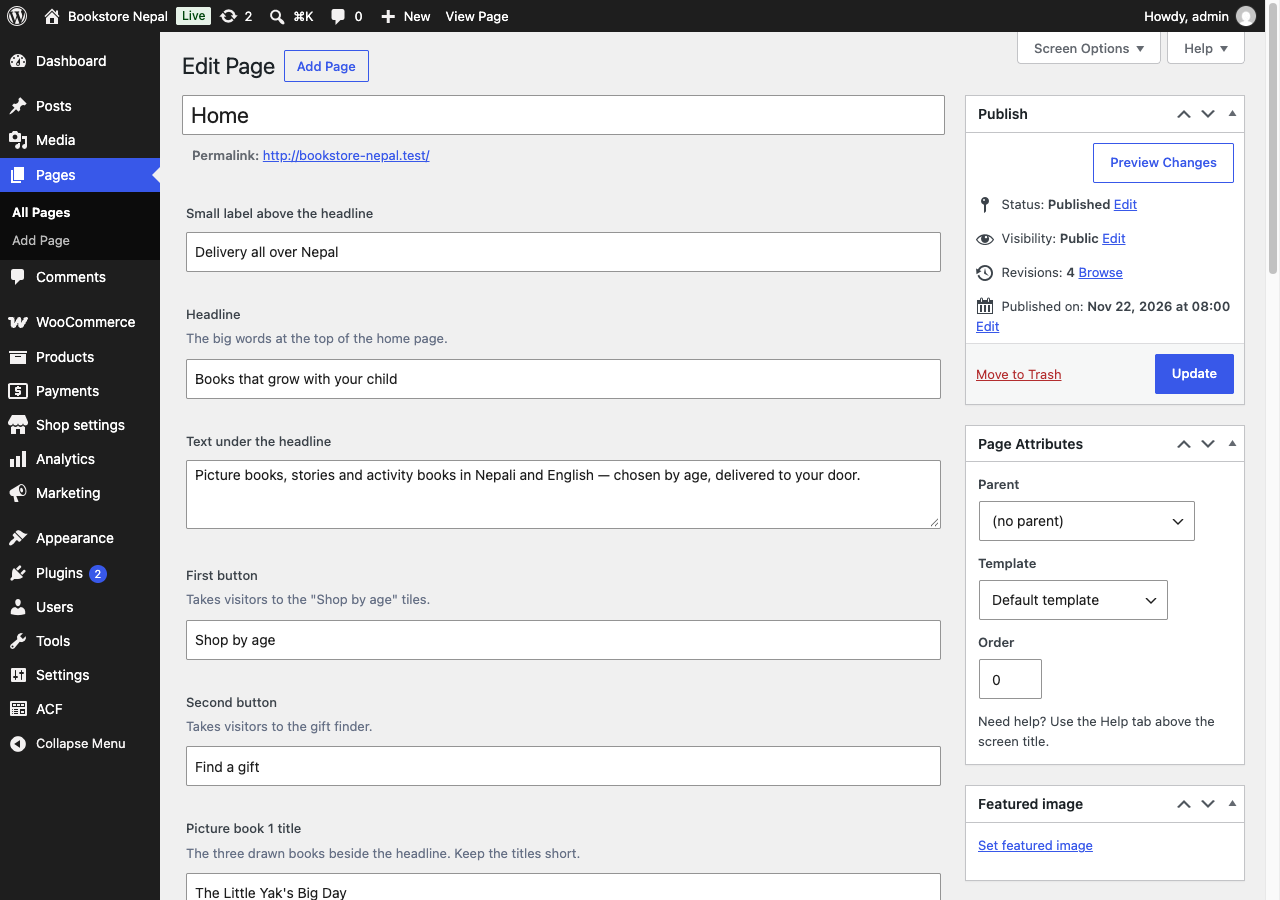
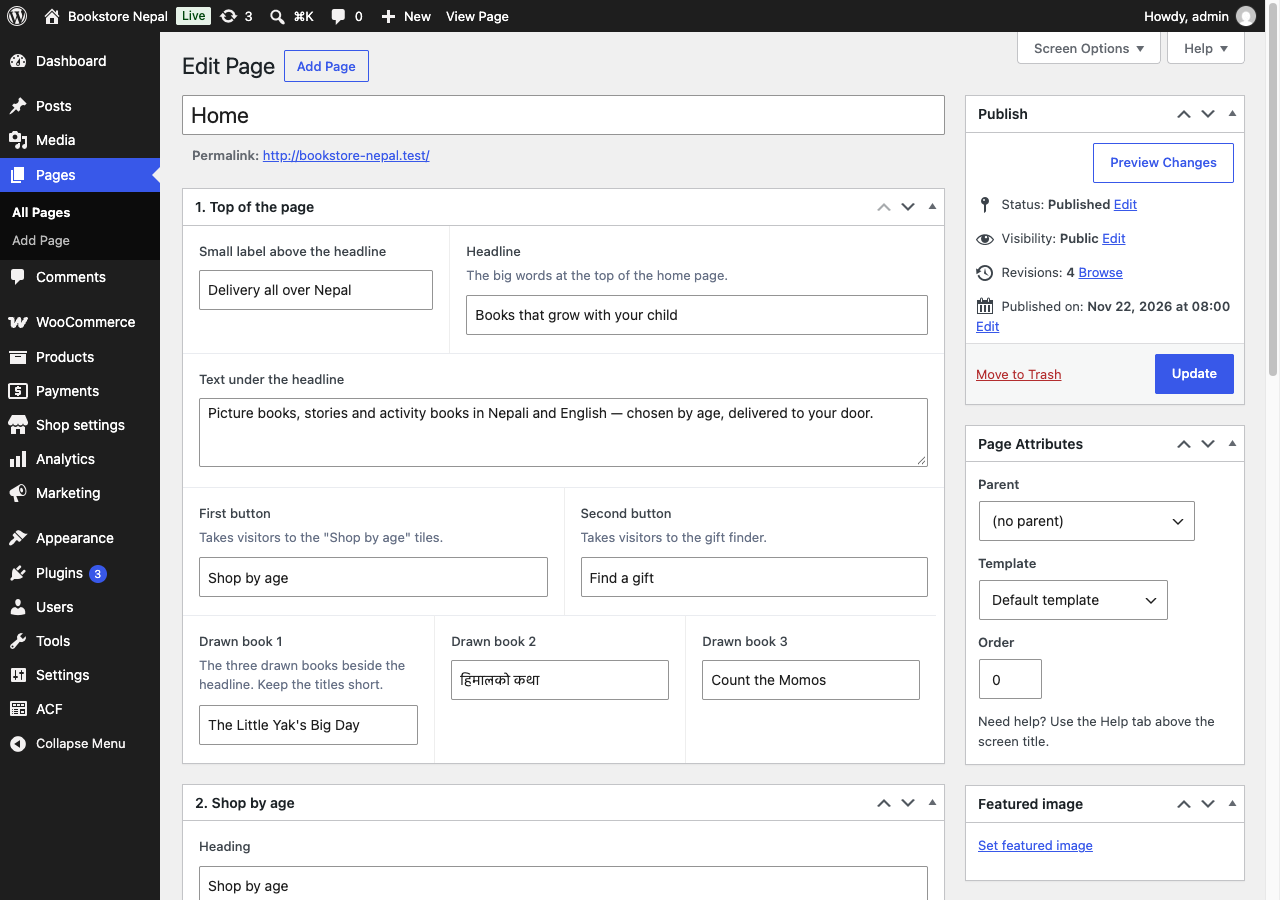
feat: Home page wording in numbered sections, related boxes side by side
The Home page form is split into five boxed, collapsible sections in page order
(top, shop by age, book rows, gift finder, dark strip), with short boxes sharing
a row. Field names are unchanged, so saved wording stays.

diff --git a/plugins/bookstore-nepal-core/src/Content/Fields.php b/plugins/bookstore-nepal-core/src/Content/Fields.php
@@ -24,39 +24,63 @@ class Fields {
 	 * @return array<string,array{title:string,location:string,fields:list<array<string,mixed>>}>
 	 */
 	public static function schema(): array {
-		$text     = static fn( string $name, string $label, string $hint = '' ): array => self::field( $name, $label, 'text', $hint );
-		$textarea = static fn( string $name, string $label, string $hint = '' ): array => self::field( $name, $label, 'textarea', $hint );
-		$rich     = static fn( string $name, string $label, string $hint = '' ): array => self::field( $name, $label, 'wysiwyg', $hint );
+		$text = static fn( string $name, string $label, string $hint = '', string $width = '' ): array => self::field( $name, $label, 'text', $hint, $width );
+		$textarea = static fn( string $name, string $label, string $hint = '', string $width = '' ): array => self::field( $name, $label, 'textarea', $hint, $width );
+		$rich = static fn( string $name, string $label, string $hint = '', string $width = '' ): array => self::field( $name, $label, 'wysiwyg', $hint, $width );
 
 		return array(
-			'home'     => array(
-				'title'    => __( 'Home page wording', 'bookstore-nepal' ),
+			'home_hero'  => array(
+				'title'    => __( '1. Top of the page', 'bookstore-nepal' ),
 				'location' => 'front_page',
 				'fields'   => array(
-					$text( 'bsn_hero_pill', __( 'Small label above the headline', 'bookstore-nepal' ) ),
-					$text( 'bsn_hero_headline', __( 'Headline', 'bookstore-nepal' ), __( 'The big words at the top of the home page.', 'bookstore-nepal' ) ),
+					$text( 'bsn_hero_pill', __( 'Small label above the headline', 'bookstore-nepal' ), '', '35' ),
+					$text( 'bsn_hero_headline', __( 'Headline', 'bookstore-nepal' ), __( 'The big words at the top of the home page.', 'bookstore-nepal' ), '65' ),
 					$textarea( 'bsn_hero_lead', __( 'Text under the headline', 'bookstore-nepal' ) ),
-					$text( 'bsn_hero_button_ages', __( 'First button', 'bookstore-nepal' ), __( 'Takes visitors to the "Shop by age" tiles.', 'bookstore-nepal' ) ),
-					$text( 'bsn_hero_button_gift', __( 'Second button', 'bookstore-nepal' ), __( 'Takes visitors to the gift finder.', 'bookstore-nepal' ) ),
-					$text( 'bsn_hero_book_1', __( 'Picture book 1 title', 'bookstore-nepal' ), __( 'The three drawn books beside the headline. Keep the titles short.', 'bookstore-nepal' ) ),
-					$text( 'bsn_hero_book_2', __( 'Picture book 2 title', 'bookstore-nepal' ) ),
-					$text( 'bsn_hero_book_3', __( 'Picture book 3 title', 'bookstore-nepal' ) ),
-					$text( 'bsn_ages_heading', __( '"Shop by age" heading', 'bookstore-nepal' ) ),
-					$text( 'bsn_age_0_3_title', __( 'Ages 0–3: name', 'bookstore-nepal' ) ),
-					$text( 'bsn_age_0_3_text', __( 'Ages 0–3: description', 'bookstore-nepal' ) ),
-					$text( 'bsn_age_4_7_title', __( 'Ages 4–7: name', 'bookstore-nepal' ) ),
-					$text( 'bsn_age_4_7_text', __( 'Ages 4–7: description', 'bookstore-nepal' ) ),
-					$text( 'bsn_age_8_12_title', __( 'Ages 8–12: name', 'bookstore-nepal' ) ),
-					$text( 'bsn_age_8_12_text', __( 'Ages 8–12: description', 'bookstore-nepal' ) ),
-					$text( 'bsn_new_heading', __( 'New arrivals: heading', 'bookstore-nepal' ) ),
-					$text( 'bsn_new_more', __( 'New arrivals: "see all" link', 'bookstore-nepal' ) ),
-					$text( 'bsn_best_heading', __( 'Best sellers: heading', 'bookstore-nepal' ) ),
-					$text( 'bsn_best_more', __( 'Best sellers: "see all" link', 'bookstore-nepal' ) ),
-					$text( 'bsn_featured_heading', __( 'Favourites: heading', 'bookstore-nepal' ), __( 'The books shown here are the ones starred as "featured" in Products.', 'bookstore-nepal' ) ),
-					$text( 'bsn_featured_more', __( 'Favourites: "see all" link', 'bookstore-nepal' ) ),
-					$text( 'bsn_gift_heading', __( 'Gift finder: heading', 'bookstore-nepal' ) ),
-					$textarea( 'bsn_gift_text', __( 'Gift finder: text', 'bookstore-nepal' ) ),
-					$text( 'bsn_trust_delivery', __( 'Dark strip near the bottom: delivery line', 'bookstore-nepal' ), __( 'The ways to pay in this strip update by themselves.', 'bookstore-nepal' ) ),
+					$text( 'bsn_hero_button_ages', __( 'First button', 'bookstore-nepal' ), __( 'Takes visitors to the "Shop by age" tiles.', 'bookstore-nepal' ), '50' ),
+					$text( 'bsn_hero_button_gift', __( 'Second button', 'bookstore-nepal' ), __( 'Takes visitors to the gift finder.', 'bookstore-nepal' ), '50' ),
+					$text( 'bsn_hero_book_1', __( 'Drawn book 1', 'bookstore-nepal' ), __( 'The three drawn books beside the headline. Keep the titles short.', 'bookstore-nepal' ), '33' ),
+					$text( 'bsn_hero_book_2', __( 'Drawn book 2', 'bookstore-nepal' ), '', '33' ),
+					$text( 'bsn_hero_book_3', __( 'Drawn book 3', 'bookstore-nepal' ), '', '33' ),
+				),
+			),
+			'home_ages'  => array(
+				'title'    => __( '2. Shop by age', 'bookstore-nepal' ),
+				'location' => 'front_page',
+				'fields'   => array(
+					$text( 'bsn_ages_heading', __( 'Heading', 'bookstore-nepal' ) ),
+					$text( 'bsn_age_0_3_title', __( 'Ages 0–3: name', 'bookstore-nepal' ), '', '40' ),
+					$text( 'bsn_age_0_3_text', __( 'Ages 0–3: description', 'bookstore-nepal' ), '', '60' ),
+					$text( 'bsn_age_4_7_title', __( 'Ages 4–7: name', 'bookstore-nepal' ), '', '40' ),
+					$text( 'bsn_age_4_7_text', __( 'Ages 4–7: description', 'bookstore-nepal' ), '', '60' ),
+					$text( 'bsn_age_8_12_title', __( 'Ages 8–12: name', 'bookstore-nepal' ), '', '40' ),
+					$text( 'bsn_age_8_12_text', __( 'Ages 8–12: description', 'bookstore-nepal' ), '', '60' ),
+				),
+			),
+			'home_rows'  => array(
+				'title'    => __( '3. Book rows', 'bookstore-nepal' ),
+				'location' => 'front_page',
+				'fields'   => array(
+					$text( 'bsn_new_heading', __( 'New arrivals: heading', 'bookstore-nepal' ), __( 'The newest books, filled in by themselves.', 'bookstore-nepal' ), '50' ),
+					$text( 'bsn_new_more', __( 'New arrivals: "see all" link', 'bookstore-nepal' ), '', '50' ),
+					$text( 'bsn_best_heading', __( 'Best sellers: heading', 'bookstore-nepal' ), __( 'The books that sold most, filled in by themselves.', 'bookstore-nepal' ), '50' ),
+					$text( 'bsn_best_more', __( 'Best sellers: "see all" link', 'bookstore-nepal' ), '', '50' ),
+					$text( 'bsn_featured_heading', __( 'Favourites: heading', 'bookstore-nepal' ), __( 'The books starred as "featured" in Products.', 'bookstore-nepal' ), '50' ),
+					$text( 'bsn_featured_more', __( 'Favourites: "see all" link', 'bookstore-nepal' ), '', '50' ),
+				),
+			),
+			'home_gift'  => array(
+				'title'    => __( '4. Gift finder', 'bookstore-nepal' ),
+				'location' => 'front_page',
+				'fields'   => array(
+					$text( 'bsn_gift_heading', __( 'Heading', 'bookstore-nepal' ), '', '40' ),
+					$textarea( 'bsn_gift_text', __( 'Text', 'bookstore-nepal' ), '', '60' ),
+				),
+			),
+			'home_trust' => array(
+				'title'    => __( '5. Dark strip near the bottom', 'bookstore-nepal' ),
+				'location' => 'front_page',
+				'fields'   => array(
+					$text( 'bsn_trust_delivery', __( 'Delivery line', 'bookstore-nepal' ), __( 'The ways to pay in this strip update by themselves.', 'bookstore-nepal' ) ),
 				),
 			),
 			'about'    => array(
@@ -183,7 +207,8 @@ class Fields {
 			'fields'         => array_map( static fn( array $f ): array => self::acf_field( $f, 'field_' ), $def['fields'] ),
 			'location'       => self::acf_location( $def['location'] ),
 			'position'       => 'acf_after_title',
-			'style'          => 'seamless',
+			'style'          => 'default',
+			'menu_order'     => (int) array_search( $key, array_keys( self::schema() ), true ),
 			'hide_on_screen' => array( 'the_content' ),
 		);
 	}
@@ -216,6 +241,10 @@ class Fields {
 	 */
 	private static function acf_field( array $f, string $prefix ): array {
 		$field = $f + array( 'key' => $prefix . $f['name'] );
+		if ( isset( $field['width'] ) ) {
+			$field['wrapper'] = array( 'width' => $field['width'] );
+			unset( $field['width'] );
+		}
 		if ( 'wysiwyg' === $f['type'] ) {
 			$field += array(
 				'tabs'         => 'visual',
@@ -241,9 +270,10 @@ class Fields {
 	 * @param string $label Label.
 	 * @param string $type  ACF type.
 	 * @param string $hint  Instructions.
+	 * @param string $width Share of the row in percent, for boxes that sit side by side.
 	 * @return array<string,string>
 	 */
-	private static function field( string $name, string $label, string $type, string $hint ): array {
+	private static function field( string $name, string $label, string $type, string $hint, string $width = '' ): array {
 		$field = array(
 			'name'  => $name,
 			'label' => $label,
@@ -251,6 +281,9 @@ class Fields {
 		);
 		if ( '' !== $hint ) {
 			$field['instructions'] = $hint;
+		}
+		if ( '' !== $width ) {
+			$field['width'] = $width;
 		}
 		return $field;
 	}

diff --git a/tests/Unit/ContentFieldsTest.php b/tests/Unit/ContentFieldsTest.php
@@ -43,7 +43,7 @@ class ContentFieldsTest extends WP_UnitTestCase {
 	}
 
 	public function test_home_group_targets_front_page_type(): void {
-		$rule = Fields::acf_group( 'home' )['location'][0][0];
+		$rule = Fields::acf_group( 'home_hero' )['location'][0][0];
 		$this->assertSame( 'page_type', $rule['param'] );
 		$this->assertSame( 'front_page', $rule['value'] );
 	}
@@ -91,8 +91,32 @@ class ContentFieldsTest extends WP_UnitTestCase {
 		$this->assertStringContainsString( 'WooCommerce › Settings › General', reset( $messages )['message'] );
 	}
 
+	public function test_home_page_is_split_into_numbered_boxed_sections_in_page_order(): void {
+		$keys = array( 'home_hero', 'home_ages', 'home_rows', 'home_gift', 'home_trust' );
+		$this->assertSame( $keys, array_values( array_filter( array_keys( Fields::schema() ), static fn( $k ) => str_starts_with( $k, 'home_' ) ) ) );
+		foreach ( $keys as $i => $key ) {
+			$group = Fields::acf_group( $key );
+			$this->assertStringStartsWith( ( $i + 1 ) . '. ', $group['title'] );
+			$this->assertSame( 'default', $group['style'], 'A boxed panel with its own title and collapse arrow.' );
+			$this->assertSame( $i, $group['menu_order'] );
+			$this->assertSame( 'front_page', $group['location'][0][0]['value'] );
+		}
+	}
+
+	public function test_related_boxes_sit_side_by_side(): void {
+		$widths = array();
+		foreach ( Fields::acf_group( 'home_hero' )['fields'] as $field ) {
+			$widths[ $field['name'] ] = $field['wrapper']['width'] ?? '';
+		}
+		$this->assertSame( '50', $widths['bsn_hero_button_ages'] );
+		$this->assertSame( '50', $widths['bsn_hero_button_gift'] );
+		$this->assertSame( '33', $widths['bsn_hero_book_1'] );
+		$this->assertSame( '', $widths['bsn_hero_lead'], 'Long text keeps the full width.' );
+		$this->assertArrayNotHasKey( 'width', Fields::acf_group( 'home_hero' )['fields'][0], 'Schema width becomes ACF wrapper width.' );
+	}
+
 	public function test_groups_hide_the_content_editor_and_register_on_acf_init(): void {
-		$this->assertContains( 'the_content', Fields::acf_group( 'home' )['hide_on_screen'] );
+		$this->assertContains( 'the_content', Fields::acf_group( 'home_hero' )['hide_on_screen'] );
 		Fields::register();
 		$this->assertNotFalse( has_action( 'acf/init', array( Fields::class, 'register_groups' ) ) );
 	}

diff --git a/tests/Unit/WordingTest.php b/tests/Unit/WordingTest.php
@@ -40,7 +40,7 @@ class WordingTest extends WP_UnitTestCase {
 	}
 
 	public function test_defaults_cover_home_and_settings_fields(): void {
-		$missing = array_diff( $this->field_names( array( 'home', 'settings' ) ), array_keys( Wording::defaults() ) );
+		$missing = array_diff( $this->field_names( array( 'home_hero', 'home_ages', 'home_rows', 'home_gift', 'home_trust', 'settings' ) ), array_keys( Wording::defaults() ) );
 		$this->assertSame( array(), array_values( $missing ) );
 	}
 

diff --git a/docs/admin-guide.md b/docs/admin-guide.md
@@ -236,10 +236,18 @@ Links inside the text (for example to **Track your order**) point at those pages
 
 ## 9. Change the home page wording
 
-All the words on the home page are in one form.
+All the words on the home page are in one form, split into numbered sections in the order they appear on the page:
+
+1. **Top of the page**: the small label, the headline, the text under it, the two button labels and the titles on the three drawn books.
+2. **Shop by age**: the heading and the name and description of each age tile.
+3. **Book rows**: the heading and "see all" link of New arrivals, Best sellers and Our favourites.
+4. **Gift finder**: its heading and text.
+5. **Dark strip near the bottom**: the delivery line.
+
+To change something:
 
 1. Go to **Pages** and open **Home**.
-2. Change any box: the headline, the text under it, the two button labels, the titles on the three drawn books, the three **Shop by age** tiles, the section headings and "see all" links, the gift finder, and the delivery line in the dark strip near the bottom.
+2. Find the section and change the box. Click a section's title bar to fold it away if you want less on screen.
 3. Click **Update**, then **View Page** to check it.
 
 Which books appear in each section is still automatic (see section 6), and the ways to pay in the dark strip update by themselves when you turn a payment method on or off.
